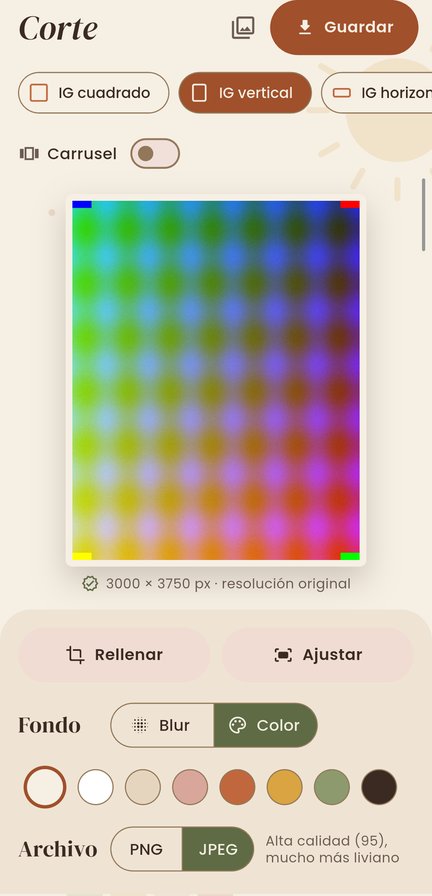
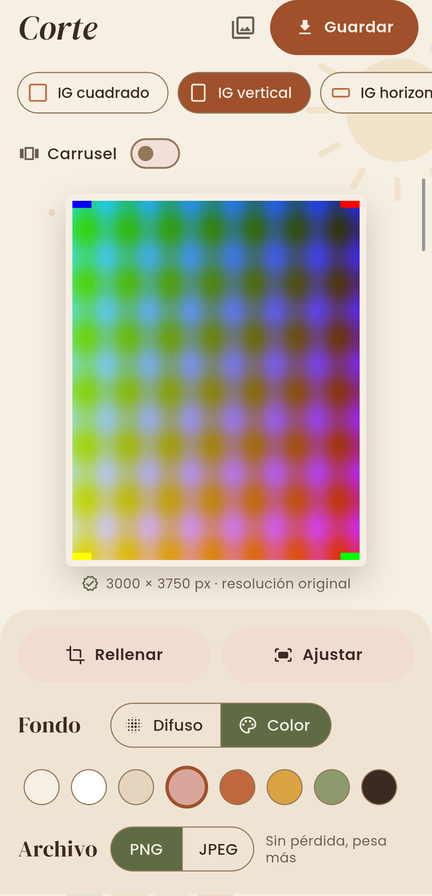
Corrige errores de ortografía y mejora descripciones en el README y el código. Agrega soporte para localización en español y actualiza permisos en Info.plist.

diff --git a/lib/main.dart b/lib/main.dart
@@ -2,6 +2,7 @@ import 'dart:ui' as ui;
 
 import 'package:flutter/material.dart';
 import 'package:flutter/services.dart';
+import 'package:flutter_localizations/flutter_localizations.dart';
 import 'package:gal/gal.dart';
 import 'package:image_picker/image_picker.dart';
 
@@ -11,12 +12,25 @@ import 'render.dart';
 void main() => runApp(MaterialApp(
       title: 'Corte',
       debugShowCheckedModeBanner: false,
+      // Español neutro: textos del sistema de Flutter y voz del lector de pantalla en español.
+      locale: const Locale('es'),
+      supportedLocales: const [Locale('es')],
+      localizationsDelegates: GlobalMaterialLocalizations.delegates,
       theme: bohoTheme(Brightness.light),
       darkTheme: bohoTheme(Brightness.dark),
       home: const Editor(),
     ));
 
-const swatches = [cream, Colors.white, sand, rose, terracotta, mustard, sage, espresso];
+const swatches = [
+  (cream, 'Crema'),
+  (Colors.white, 'Blanco'),
+  (sand, 'Arena'),
+  (rose, 'Rosa viejo'),
+  (terracotta, 'Terracota'),
+  (mustard, 'Mostaza'),
+  (sage, 'Salvia'),
+  (espresso, 'Café'),
+];
 
 class Editor extends StatefulWidget {
   const Editor({super.key});
@@ -82,7 +96,9 @@ class _EditorState extends State<Editor> with SingleTickerProviderStateMixin {
         _frame = null; // fuerza encuadre inicial
       });
     } catch (e) {
-      msg.showSnackBar(SnackBar(content: Text('No se pudo abrir la foto: $e')));
+      debugPrint('pick: $e');
+      msg.showSnackBar(const SnackBar(
+          content: Text('No se pudo abrir la foto. Si solo está en la nube, descárgala primero.')));
     }
   }
 
@@ -96,7 +112,10 @@ class _EditorState extends State<Editor> with SingleTickerProviderStateMixin {
     setState(() => _saving = true);
     final msg = ScaffoldMessenger.of(context);
     try {
-      if (!await Gal.hasAccess() && !await Gal.requestAccess()) throw 'Sin permiso para la galería';
+      if (!await Gal.hasAccess() && !await Gal.requestAccess()) {
+        msg.showSnackBar(const SnackBar(content: Text('Permite el acceso a la galería para guardar.')));
+        return;
+      }
       final (_, w, h) = formats[_fmt];
       // Se vuelve a decodificar el original: el export nunca usa la copia de pantalla.
       final (full, _) = await decodeFull(_bytes!);
@@ -124,7 +143,8 @@ class _EditorState extends State<Editor> with SingleTickerProviderStateMixin {
         full.dispose();
       }
     } catch (e) {
-      msg.showSnackBar(SnackBar(content: Text('Error al guardar: $e')));
+      debugPrint('save: $e');
+      msg.showSnackBar(const SnackBar(content: Text('No se pudo guardar. Inténtalo de nuevo.')));
     } finally {
       if (mounted) setState(() => _saving = false);
     }
@@ -194,7 +214,7 @@ class _EditorState extends State<Editor> with SingleTickerProviderStateMixin {
           child: Column(mainAxisSize: MainAxisSize.min, children: [
             const RepaintBoundary(child: CustomPaint(size: Size(220, 110), painter: Rainbow())),
             const SizedBox(height: 28),
-            Text('Cortá, ampliá\ny armá carruseles',
+            Text('Corta, amplía\ny arma carruseles',
                 textAlign: TextAlign.center,
                 style: TextStyle(fontFamily: serif, fontSize: 34, height: 1.1, color: t.colorScheme.onSurface)),
             const SizedBox(height: 12),
@@ -447,7 +467,7 @@ class _EditorState extends State<Editor> with SingleTickerProviderStateMixin {
           SegmentedButton<bool>(
             showSelectedIcon: false,
             segments: const [
-              ButtonSegment(value: true, label: Text('Blur'), icon: Icon(Icons.blur_on)),
+              ButtonSegment(value: true, label: Text('Difuso'), icon: Icon(Icons.blur_on)),
               ButtonSegment(value: false, label: Text('Color'), icon: Icon(Icons.palette_outlined)),
             ],
             selected: {_blur},
@@ -466,7 +486,7 @@ class _EditorState extends State<Editor> with SingleTickerProviderStateMixin {
                   padding: const EdgeInsets.only(top: 12),
                   child: SingleChildScrollView(
                     scrollDirection: Axis.horizontal,
-                    child: Row(children: [for (final c in swatches) _swatch(c)]),
+                    child: Row(children: [for (final (c, name) in swatches) _swatch(c, name)]),
                   ),
                 ),
         ),
@@ -488,7 +508,7 @@ class _EditorState extends State<Editor> with SingleTickerProviderStateMixin {
           const SizedBox(width: 10),
           Expanded(
             child: Text(
-              _jpeg ? 'Alta calidad (95), mucho más liviano' : 'Sin pérdida, pesa más',
+              _jpeg ? 'Alta calidad (95), mucho más ligero' : 'Sin pérdida, pesa más',
               style: TextStyle(fontSize: 12, height: 1.25, color: t.colorScheme.onSurfaceVariant),
             ),
           ),
@@ -502,9 +522,13 @@ class _EditorState extends State<Editor> with SingleTickerProviderStateMixin {
         child: Text(text, style: TextStyle(fontFamily: serif, fontSize: 20, color: Theme.of(context).colorScheme.onSurface)),
       );
 
-  Widget _swatch(Color c) {
+  Widget _swatch(Color c, String name) {
     final sel = _color == c;
-    return GestureDetector(
+    return Semantics(
+      label: 'Fondo $name',
+      button: true,
+      selected: sel,
+      child: GestureDetector(
       onTap: () {
         HapticFeedback.selectionClick();
         setState(() => _color = c);
@@ -520,6 +544,7 @@ class _EditorState extends State<Editor> with SingleTickerProviderStateMixin {
           shape: BoxShape.circle,
           border: Border.all(color: sel ? clay : Theme.of(context).colorScheme.outline, width: sel ? 3 : 1),
         ),
+      ),
       ),
     );
   }

diff --git a/lib/render.dart b/lib/render.dart
@@ -10,11 +10,11 @@ const formats = [
   ('IG cuadrado', 1080, 1080),
   ('IG vertical', 1080, 1350),
   ('IG horizontal', 1080, 566),
-  ('Story / Reels / TikTok', 1080, 1920),
+  ('Historias / Reels / TikTok', 1080, 1920),
   ('Facebook', 1200, 630),
   ('X', 1600, 900),
   ('LinkedIn', 1200, 627),
-  ('YouTube miniatura', 1280, 720),
+  ('Miniatura de YouTube', 1280, 720),
 ];
 
 /// Blur del fondo relativo a la altura del lienzo, igual en preview y export.

diff --git a/README.md b/README.md
@@ -2,7 +2,7 @@
 
 <h1 align="center">Corte</h1>
 
-<p align="center">Recortá, ampliá y armá carruseles para redes sociales, sin perder resolución y sin conexión.</p>
+<p align="center">Recorta, amplía y arma carruseles para redes sociales, sin perder resolución y sin conexión.</p>
 
 <p align="center">
   <img src="docs/inicio.png" width="240" alt="Pantalla de inicio">
@@ -12,11 +12,11 @@
 
 ## Qué hace
 
-- **Recorta** una foto a los tamaños de cada red: Instagram (cuadrado, vertical, horizontal), Stories/Reels/TikTok, Facebook, X, LinkedIn y miniatura de YouTube.
+- **Recorta** una foto a los tamaños de cada red: Instagram (cuadrado, vertical, horizontal), Historias/Reels/TikTok, Facebook, X, LinkedIn y miniatura de YouTube.
 - **Arma carruseles** partiendo una foto grande en 2 a 10 slides contiguos.
 - **Amplía sin deformar**: si la foto no entra en el formato, la ajusta entera y rellena con fondo desenfocado o un color.
-- **Editor WYSIWYG**: pellizcar y arrastrar; lo que se ve es exactamente lo que se guarda.
-- **Guarda en la galería** como PNG (sin pérdida) o JPEG de alta calidad (calidad 95, mucho más liviano).
+- **Editor WYSIWYG**: pellizca y arrastra; lo que se ve es exactamente lo que se guarda.
+- **Guarda en la galería** como PNG (sin pérdida) o JPEG de alta calidad (calidad 95, mucho más ligero).
 
 ## Garantías
 
